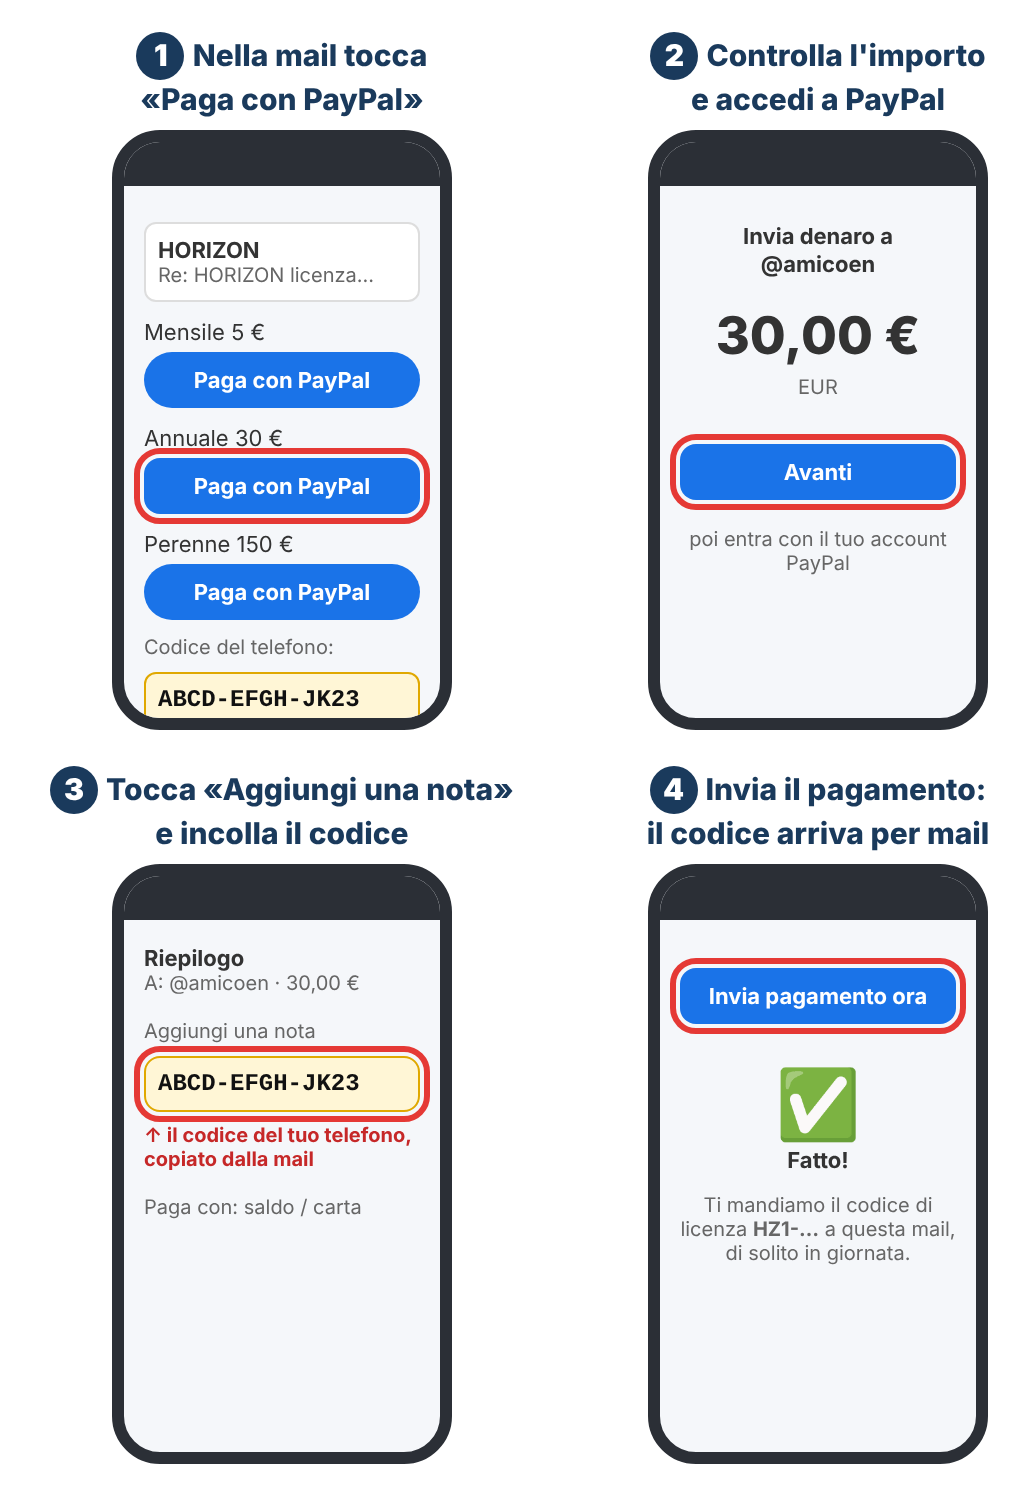
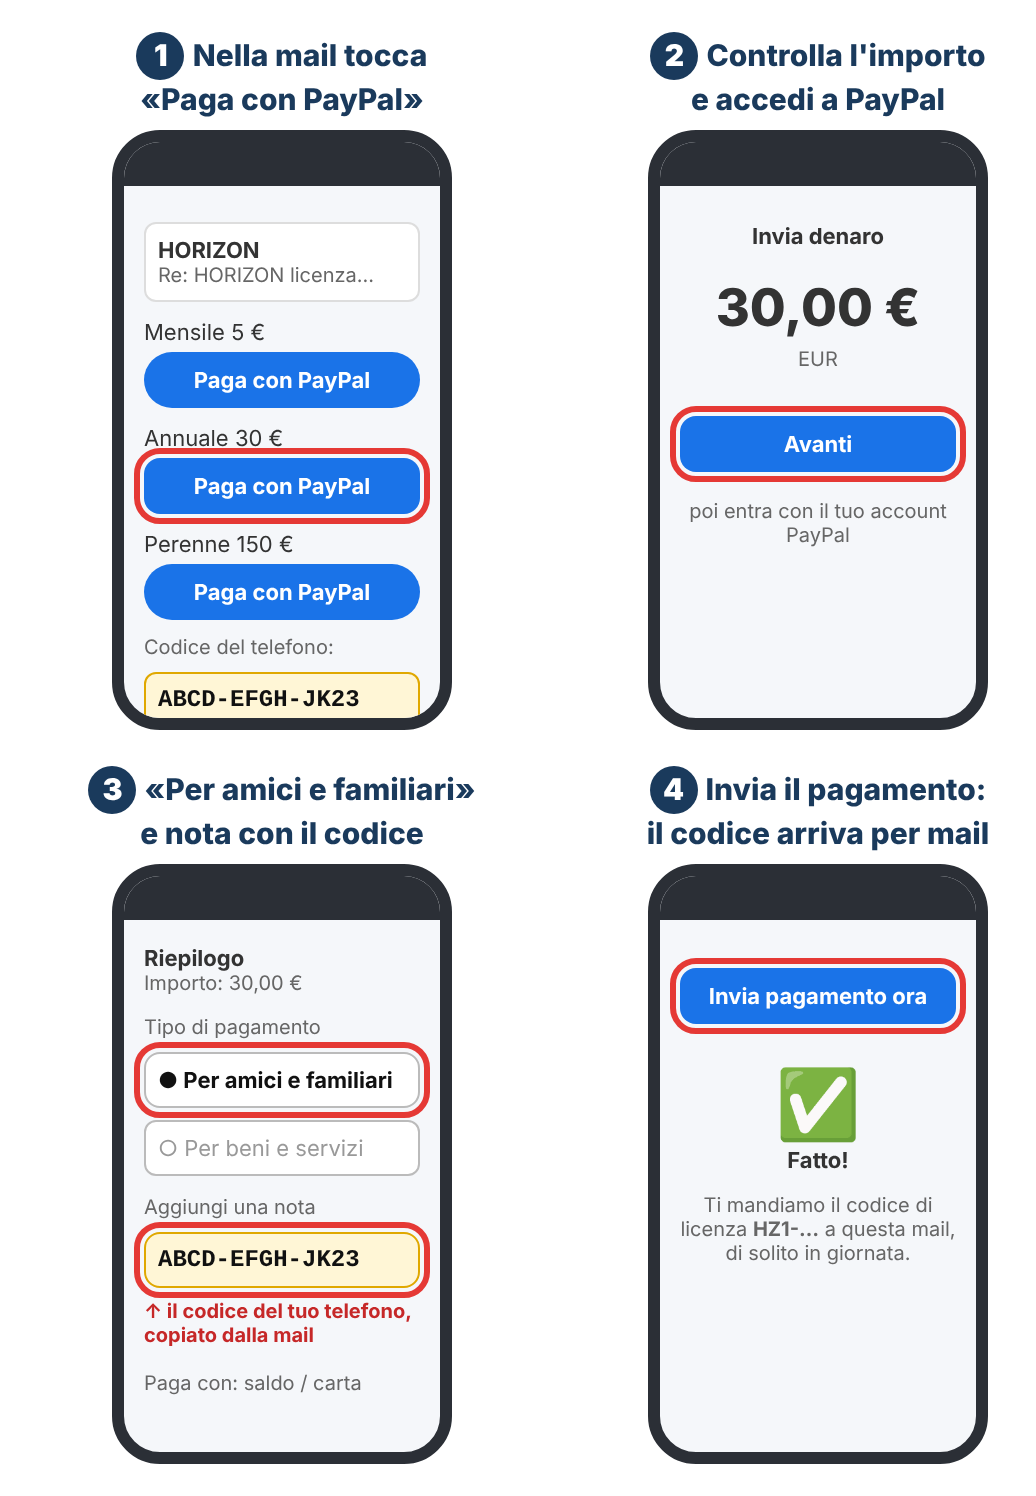
Licenze: revoche nel riepilogo con la data, «Per amici e familiari» nelle istruzioni PayPal
- revoca e ripristina scrivono nello storico (numero e data) della lista pubblica delle revocate;
  il riepilogo giornaliero mostra «revocata il …» e l'elenco di revoche e ripristini.
- Mail dei prezzi e disegno dei passaggi: come tipo di pagamento «Per amici e familiari» (invio
  di denaro tra privati); nel disegno nessun nome del destinatario.

Claude-Session: https://claude.ai/code/session_01J4uqCJLG5ZCqTLDhRwrMqs

diff --git a/docs/licenze/paypal-passi.html b/docs/licenze/paypal-passi.html
@@ -24,14 +24,15 @@ body{margin:0;background:#fff;font-family:system-ui,-apple-system,Segoe UI,Robot
 <div class="small" style="margin-top:8px">Codice del telefono:</div><div class="fld code">ABCD-EFGH-JK23</div>
 </div></div></div>
 <div class="c"><div class="n"><b>2</b>Controlla l'importo<br>e accedi a PayPal</div><div class="ph"><div class="bar"></div><div class="in">
-<div style="text-align:center;font-weight:700;margin-top:6px">Invia denaro a<br>@amicoen</div>
+<div style="text-align:center;font-weight:700;margin-top:6px">Invia denaro</div>
 <div class="big">30,00 €</div><div class="small" style="text-align:center">EUR</div>
 <div class="btn hl" style="margin-top:22px">Avanti</div>
 <div class="small" style="text-align:center;margin-top:14px">poi entra con il tuo account PayPal</div>
 </div></div></div>
-<div class="c"><div class="n"><b>3</b>Tocca «Aggiungi una nota»<br>e incolla il codice</div><div class="ph"><div class="bar"></div><div class="in">
-<div style="font-weight:700">Riepilogo</div><div class="small">A: @amicoen · 30,00 €</div>
-<div class="small" style="margin-top:12px">Aggiungi una nota</div><div class="fld code hl">ABCD-EFGH-JK23</div>
+<div class="c"><div class="n"><b>3</b>«Per amici e familiari»<br>e nota con il codice</div><div class="ph"><div class="bar"></div><div class="in">
+<div style="font-weight:700">Riepilogo</div><div class="small">Importo: 30,00 €</div>
+<div class="small" style="margin-top:10px">Tipo di pagamento</div><div class="fld hl" style="color:#111;font-weight:700">● Per amici e familiari</div><div class="fld" style="color:#999">○ Per beni e servizi</div>
+<div class="small" style="margin-top:10px">Aggiungi una nota</div><div class="fld code hl">ABCD-EFGH-JK23</div>
 <div class="small" style="margin-top:6px;color:#c62828;font-weight:700">↑ il codice del tuo telefono,<br>copiato dalla mail</div>
 <div class="small" style="margin-top:12px">Paga con: saldo / carta</div>
 </div></div></div>

diff --git a/tools/posta_licenze.py b/tools/posta_licenze.py
@@ -142,7 +142,8 @@ Senza il codice nella nota non sappiamo per quale telefono fare la licenza.
 Come pagare, passo per passo:
   1. tocca il link PayPal dell'importo che hai scelto;
   2. controlla l'importo, tocca «Avanti» ed entra con il tuo account PayPal;
-  3. tocca «Aggiungi una nota» e incolla il codice del telefono;
+  3. come tipo di pagamento scegli «Per amici e familiari» (invio di denaro tra privati),
+     poi tocca «Aggiungi una nota» e incolla il codice del telefono;
   4. tocca «Invia pagamento ora».
 
 Appena vediamo il pagamento ti mandiamo qui il codice di licenza, di solito in giornata.
@@ -159,7 +160,8 @@ HORIZON · strumento di volo
 {BOX.format(t)}
 <p>Senza il codice nella nota non sappiamo per quale telefono fare la licenza.</p>
 <p><b>Come pagare, passo per passo:</b></p>
-<img src="cid:passi-paypal" width="518" alt="1. tocca Paga con PayPal · 2. controlla l'importo e tocca Avanti · 3. Aggiungi una nota: incolla il codice del telefono · 4. Invia pagamento ora" style="max-width:100%;height:auto;border:1px solid #ddd;border-radius:8px">
+<p style="background:#fff6d6;border:1px solid #e0a800;border-radius:8px;padding:8px 12px">Tipo di pagamento: scegli <b>«Per amici e familiari»</b> (invio di denaro tra privati).</p>
+<img src="cid:passi-paypal" width="518" alt="1. tocca Paga con PayPal · 2. controlla l'importo e tocca Avanti · 3. scegli Per amici e familiari, Aggiungi una nota: incolla il codice del telefono · 4. Invia pagamento ora" style="max-width:100%;height:auto;border:1px solid #ddd;border-radius:8px">
 <p>Appena vediamo il pagamento ti mandiamo qui il codice di licenza, di solito in giornata.</p>
 <p>Per qualsiasi domanda rispondi a questa mail.</p>""")
     return testo, html
@@ -216,8 +218,10 @@ def recupera_indirizzi(posta, registro, pub):
     return cambiato
 
 
-def stato_di(r, revocate, oggi):
-    if r['numero'] in revocate: return 'revocata', '#c62828'
+def stato_di(r, revocate, oggi, quando=None):
+    if r['numero'] in revocate:
+        d = (quando or {}).get(str(r['numero']))
+        return ('revocata il ' + '/'.join(reversed(d.split('-'))) if d else 'revocata'), '#c62828'
     if not r.get('scade'): return 'attiva, senza scadenza', '#2e7d32'
     import datetime
     g = (datetime.date.fromisoformat(r['scade']) - oggi).days
@@ -226,15 +230,17 @@ def stato_di(r, revocate, oggi):
     return 'attiva', '#2e7d32'
 
 
-def riepilogo(posta, registro, revocate):
+def riepilogo(posta, registro, rev):
     """Mail all'autore (alla casella di HORIZON) con la tabella di tutte le licenze."""
     import datetime, html as H
     oggi = datetime.date.today()
     it = lambda d: '/'.join(reversed(d.split('-'))) if d else '—'
+    revocate = set(rev.get('revocate', [])); storico = rev.get('storico', [])
+    quando = {str(e['numero']): e['data'] for e in storico if e.get('azione') == 'revoca'}
     righe, testo, conta = [], [], {}
     for r in sorted(registro, key=lambda r: -r['numero']):
-        st, col = stato_di(r, revocate, oggi)
-        k = {'revocata': 'revocate', 'scaduta': 'scadute'}.get(st, 'in scadenza' if st.startswith('scade') else 'attive')
+        st, col = stato_di(r, revocate, oggi, quando)
+        k = 'revocate' if st.startswith('revocata') else {'scaduta': 'scadute'}.get(st, 'in scadenza' if st.startswith('scade') else 'attive')
         conta[k] = conta.get(k, 0) + 1
         chi = (r.get('nome') or '') + (f" <{r['mail']}>" if r.get('mail') else '') or r.get('origine', '')
         tel = con_trattini(r['telefono'])
@@ -248,11 +254,15 @@ def riepilogo(posta, registro, revocate):
              f'<table style="border-collapse:collapse;font-size:14px"><tr style="background:#f0f3f7">'
              + ''.join(f'<th {td}>{h}</th>' for h in ('N.', 'Tipo', 'Pilota', 'Telefono', 'Emessa', 'Scade', 'Stato')) + '</tr>'
              + ''.join(righe).replace('<td>', f'<td {td}>') + '</table>'
-             '<p style="color:#666;font-size:13px">Per revocare: GitHub › Actions › Licenze › Run workflow › revoca, con il numero.<br>'
+             + (('<p style="margin-top:18px"><b>Revoche e ripristini</b></p><ul style="font-size:14px">'
+                 + ''.join(f'<li>{it(e["data"])} · licenza n. {e["numero"]} · {"revocata" if e["azione"] == "revoca" else "ripristinata"}</li>'
+                           for e in sorted(storico, key=lambda e: e['data'], reverse=True)) + '</ul>') if storico else '')
+             + '<p style="color:#666;font-size:13px">Per revocare: GitHub › Actions › Licenze › Run workflow › revoca, con il numero.<br>'
              'Arriva una volta al giorno. Per averlo subito: GitHub › Actions › Licenze per posta › Run workflow › «riepilogo».</p>')
     r = EmailMessage()
     r['From'] = email.utils.formataddr(('HORIZON', posta.utente)); r['To'] = posta.utente
     r['Subject'] = f'HORIZON · Riepilogo licenze · {oggi.strftime("%d/%m/%Y")}'
+    if storico: testo += ['', 'Revoche e ripristini:'] + [f"{it(e['data'])} · licenza n. {e['numero']} · {'revocata' if e['azione'] == 'revoca' else 'ripristinata'}" for e in sorted(storico, key=lambda e: e['data'], reverse=True)]
     r.set_content(f'{len(registro)} licenze · {sintesi}\n\n' + '\n'.join(testo) + '\n')
     r.add_alternative(html_di(corpo), subtype='html')
     posta.manda(r)
@@ -313,8 +323,8 @@ def main():
     oggi = datetime.date.today().isoformat(); fu = env.get('ULTIMO_RIEPILOGO')
     ultimo = open(fu).read().strip() if fu and os.path.exists(fu) else ''
     if ultimo != oggi or env.get('MANDA_RIEPILOGO') == 'true':
-        revocate = set(json.load(open(env['REVOCATE'])).get('revocate', [])) if env.get('REVOCATE') and os.path.exists(env['REVOCATE']) else set()
-        riepilogo(posta, registro, revocate); conti['riepilogo'] = 1
+        rev = json.load(open(env['REVOCATE'])) if env.get('REVOCATE') and os.path.exists(env['REVOCATE']) else {}
+        riepilogo(posta, registro, rev); conti['riepilogo'] = 1
         if fu: open(fu, 'w').write(oggi + '\n')
     # in archivio: anche quello appena mandato, che Gmail consegna dopo qualche secondo (si aspetta al massimo 1 minuto)
     import time
